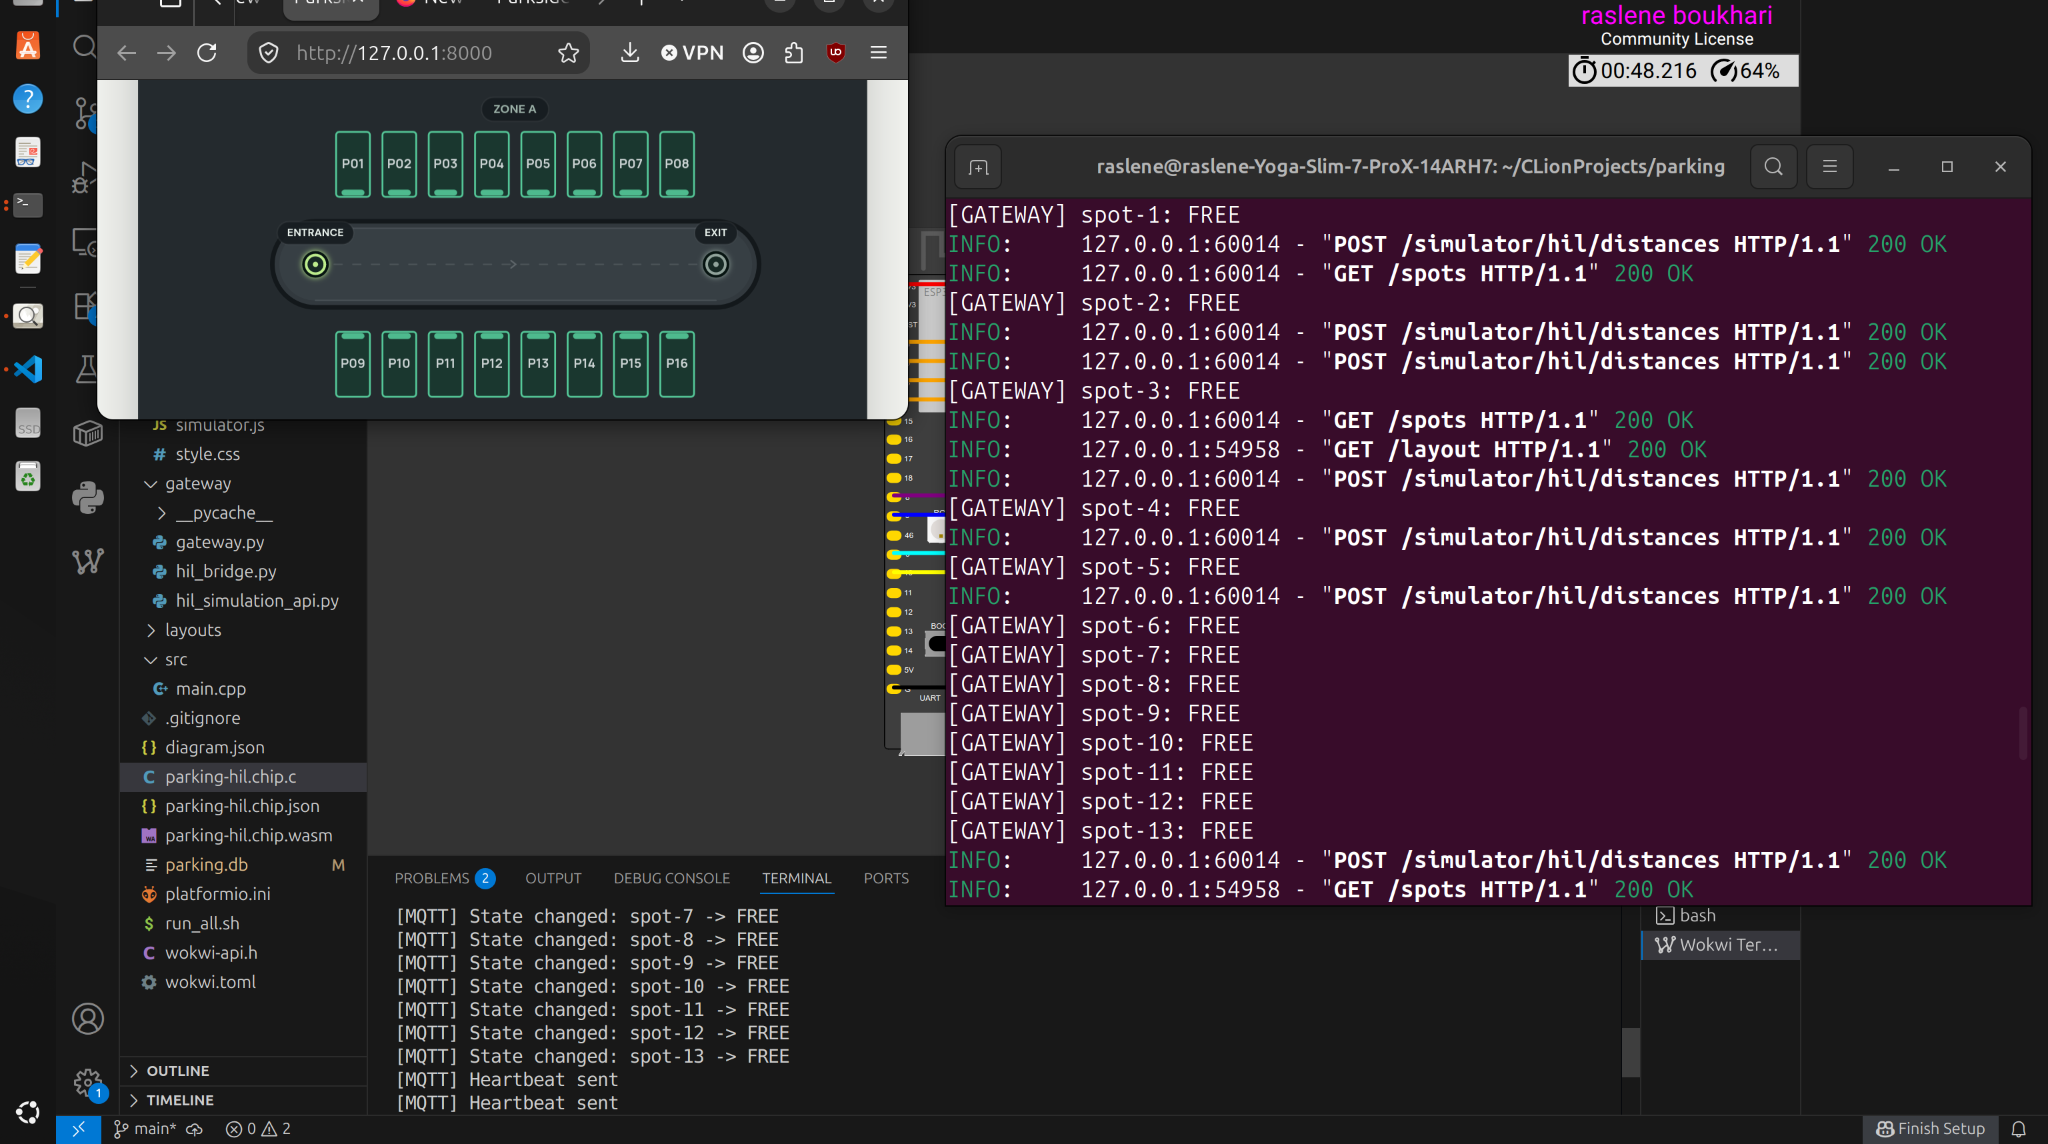
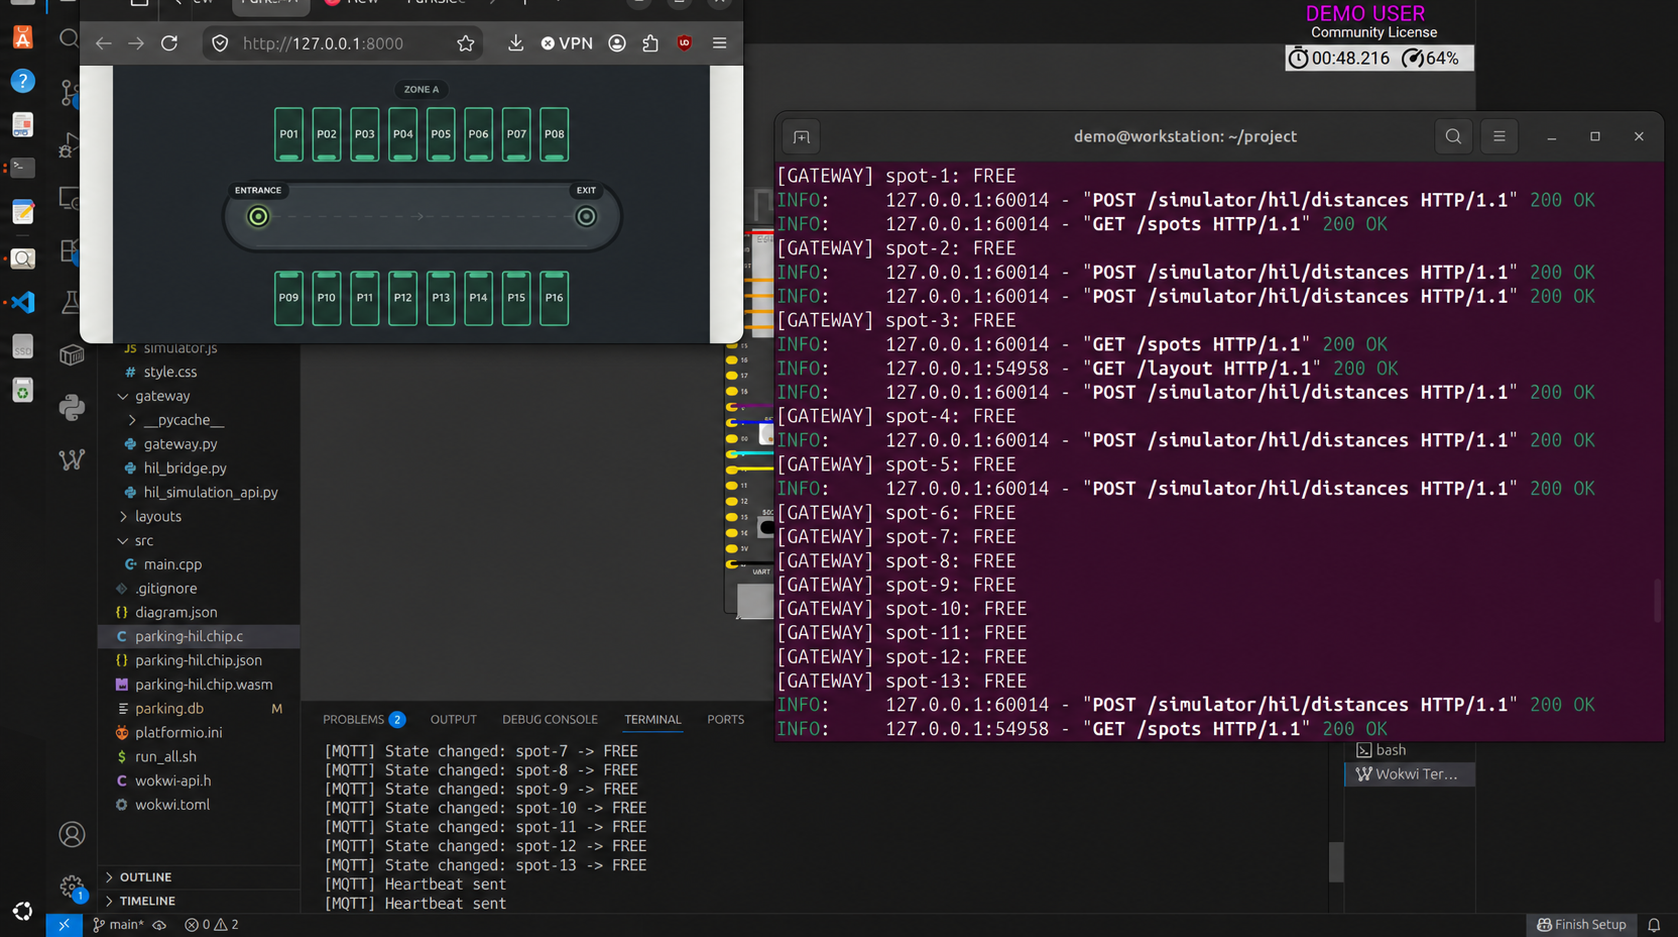
Anonymize documentation images and improve README

diff --git a/README.md b/README.md
@@ -1,123 +1,247 @@
-# Smart Parking System - Hardware-in-the-Loop Simulation
+# Smart Parking Hardware-in-the-Loop Demo
 
-A complete smart parking system combining a 2D parking simulator, backend gateway, embedded ESP32 controller, custom Hardware-in-the-Loop (HIL) sensor simulation, and a web application.
+An end-to-end smart-parking prototype that connects a browser-based driving simulator to a simulated ESP32-S3 controller, sixteen virtual ultrasonic sensors, an MQTT telemetry path, and reservation-focused web interfaces.
 
-## Overview
+The project is more than a parking-map mock-up: vehicle positions in the 2D simulator become distance measurements, those measurements travel through a Hardware-in-the-Loop (HIL) bridge, and the ESP32 firmware makes the final `FREE`/`OCCUPIED` decision before publishing it back to the application.
 
-The system simulates a smart parking infrastructure:
-- Vehicle movement simulation
-- Virtual ultrasonic sensors
-- Backend processing
-- ESP32 embedded control
-- Web application for monitoring and reservations
+![System architecture](docs/architecture.png)
 
-The parking layout is flexible and configurable. New layouts, zones, and sensor configurations can be added without changing the main architecture.
+## What the demo includes
 
-## Architecture
+- A 2D parking simulator with drivable cars, collision-aware movement, barriers, parking sensors, and a phone preview.
+- A configurable 16-space garage loaded from JSON.
+- A FastAPI gateway that serves all three web interfaces and the REST API.
+- A custom Wokwi WebAssembly chip that emulates 16 multiplexed HC-SR04-style ultrasonic sensors.
+- ESP32-S3 firmware with hysteresis, sensor-fault handling, state confirmation, Wi-Fi, and MQTT publishing.
+- A driver view for availability, reservations, navigation, and arrival confirmation.
+- An entrance display that creates one-time QR reservation tickets.
+- SQLite persistence for spot and reservation state.
 
-![System Architecture](docs/architecture.png)
+| Interface | URL | Purpose |
+| --- | --- | --- |
+| Driver application | `http://127.0.0.1:8000/` | View availability, manage a reservation, and confirm a parked car |
+| Entrance display | `http://127.0.0.1:8000/display` | Select a free bay and transfer the reservation by QR code |
+| Parking simulator | `http://127.0.0.1:8000/simulator` | Drive test vehicles and generate virtual sensor distances |
+| OpenAPI documentation | `http://127.0.0.1:8000/docs` | Explore and call the FastAPI endpoints |
 
-## Components
+## How the HIL loop works
 
-### Simulation Environment
+1. The simulator computes the distance from each parking sensor to the nearest vehicle and posts a frame to `POST /simulator/hil/distances`.
+2. `gateway/hil_bridge.py` reads the latest frame and sends changed channels over Wokwi's RFC2217 serial server on port `4000`.
+3. The ESP32 receives each `channel,distance` update and forwards a 24-bit control packet to the custom Wokwi chip.
+4. When the ESP32 triggers a selected sensor, the custom chip produces an ECHO pulse whose width represents that channel's distance.
+5. The firmware classifies the bay using an occupied threshold below `80 cm`, a free threshold above `100 cm`, and three consecutive confirmations to reduce chatter.
+6. Confirmed state and sensor-health messages are published through MQTT.
+7. The FastAPI gateway subscribes to the MQTT feed, persists state in SQLite, and exposes it to the web applications.
 
-Generates parking scenarios and virtual sensor distances.
+This separation is intentional: the browser only generates physical distance inputs. It does not decide whether a space is free or occupied; that decision remains in the embedded firmware.
 
-![Parking Simulator](docs/simulator.png)
+![Anonymized HIL workspace](docs/hil_system.png)
 
-### Backend Gateway
+## Architecture and source map
 
-FastAPI service responsible for:
-- Receiving simulation data
-- Managing parking states
-- Providing APIs
-- Communicating with the HIL bridge
+| Path | Responsibility |
+| --- | --- |
+| `frontend/simulator.html`, `simulator.js`, `simulator.css` | 2D vehicle simulation and distance-frame generation |
+| `frontend/index.html`, `app.js`, `style.css` | Driver-facing parking and reservation application |
+| `frontend/display.html`, `display.js`, `display.css` | Entrance kiosk and QR ticket flow |
+| `gateway/gateway.py` | FastAPI routes, MQTT subscriber, reservation logic, and SQLite persistence |
+| `gateway/hil_simulation_api.py` | In-memory handoff for the latest simulator distance frame |
+| `gateway/hil_bridge.py` | HTTP-to-RFC2217 distance bridge and MCU log reader |
+| `src/main.cpp` | ESP32-S3 sensor scanning, filtering, health checks, and MQTT publishing |
+| `parking-hil.chip.c` | Custom Wokwi chip implementing the control bus and ultrasonic ECHO timing |
+| `diagram.json`, `parking-hil.chip.json`, `wokwi.toml` | Wokwi board, custom-chip, and RFC2217 configuration |
+| `layouts/parking_layout.json` | Floors, zones, bays, aisle graph, entrance, and exit |
+| `parking.db` | Demo SQLite state used by the gateway |
+| `run_all.sh` | Build and startup orchestration |
 
-![Gateway](docs/hil_system.png)
+## Requirements
 
-### Hardware-in-the-Loop System
+The included startup script targets Linux and expects these commands to be available:
 
-Communication flow:
+- Python 3 with `venv`
+- PlatformIO CLI (`pio`)
+- Wokwi CLI (`wokwi-cli`)
+- Visual Studio Code (`code`) with the Wokwi extension
+- A browser opener compatible with `xdg-open`
+- Internet access for Wokwi, the public MQTT broker, and the QR-code JavaScript CDN
 
-```
-Simulator
- |
- | HTTP distance data
- v
-FastAPI Gateway
- |
- v
-Python HIL Bridge
- |
- | RFC2217 Serial
- v
-Custom Wokwi HIL Chip
- |
- | Ultrasonic Echo pulses
- v
-ESP32-S3 Controller
-```
+The Python packages used by the gateway and bridge are `fastapi`, `uvicorn`, `paho-mqtt`, `pyserial`, and `requests`.
 
-![HIL System](docs/Wokwi.png)
+## Quick start
 
-
-### Web Application
-
-Provides:
-- Live parking status
-- Parking map visualization
-- Reservations
-- Driver interface
-
-![Web Application](docs/web_app.png)
-![Web Application](docs/reservation_flow.png)
-
-## Running
-
-Requirements:
-- Python 3
-- PlatformIO
-- Wokwi CLI
-
-Start the complete system:
+### 1. Clone the repository
 
 ```bash
+git clone https://github.com/rasleneboukhari-stack/smart-parking-hil.git
+cd smart-parking-hil
+```
+
+### 2. Create the expected Python environment
+
+`run_all.sh` deliberately uses a project-local `.venv`:
+
+```bash
+python3 -m venv .venv
+.venv/bin/python -m pip install --upgrade pip
+.venv/bin/python -m pip install fastapi uvicorn paho-mqtt pyserial requests
+```
+
+### 3. Start the stack
+
+```bash
+chmod +x run_all.sh
 ./run_all.sh
 ```
 
-## Project Structure
+The script will:
 
+1. Compile `parking-hil.chip.c` into `parking-hil.chip.wasm`.
+2. Build the ESP32 firmware with PlatformIO.
+3. Start the FastAPI gateway on port `8000`.
+4. Open the driver application and simulator in the browser.
+5. Open the project in VS Code.
+6. Wait for a real RFC2217 connection from Wokwi.
+7. Start the HIL bridge after the Wokwi handshake succeeds.
+
+### 4. Start Wokwi when prompted
+
+In VS Code:
+
+1. Open the Command Palette with `Ctrl+Shift+P`.
+2. Run **Wokwi: Start Simulator**.
+3. Keep the Wokwi simulator running while using the browser simulator.
+
+The terminal will print `PARKING STACK RUNNING` after the RFC2217 connection is ready. Press `Ctrl+C` in the `run_all.sh` terminal to stop the gateway and HIL bridge.
+
+![Anonymized Wokwi setup](docs/Wokwi.png)
+
+## Using the demo
+
+1. Open the simulator and drive a car to the entrance.
+2. Open the entrance display, choose an available space, and create a reservation.
+3. Scan the QR ticket with a device that can reach the gateway, or open the generated claim URL in another browser tab.
+4. Drive the selected car into its reserved bay.
+5. Wait for the ESP32 sensor pipeline to mark the bay occupied.
+6. Confirm whether the detected car is yours. The application can also move or cancel an active reservation and handle a car parked in another occupied bay.
+
+The reservation state machine uses:
+
+```text
+ACTIVE -> AWAITING_CONFIRMATION -> COMPLETED
+   |               |
+   +-> CANCELLED   +-> ACTIVE (if the bay becomes free again)
+   |
+   +-> EXPIRED after 5 minutes
 ```
-smart-parking-hil/
-├── frontend/
-├── gateway/
-├── src/
-├── layouts/
-├── docs/
-├── platformio.ini
-├── run_all.sh
-└── README.md
+
+![Reservation selection](docs/reservation.png)
+
+![Reservation and simulator flow](docs/reservation_flow.png)
+
+## REST API summary
+
+| Method | Endpoint | Description |
+| --- | --- | --- |
+| `GET` | `/layout` | Return the configured garage geometry and navigation graph |
+| `GET` | `/spots` | Return physical, effective, reservation, floor, and zone state |
+| `POST` | `/reserve` | Reserve an available spot |
+| `GET` | `/reservation/{id}` | Read a reservation's current state |
+| `POST` | `/reservation/{id}/confirm` | Confirm the detected car in the reserved bay |
+| `POST` | `/reservation/{id}/move` | Move a waiting reservation to another free bay |
+| `POST` | `/reservation/{id}/parked-elsewhere` | Associate the reservation with another occupied bay |
+| `POST` | `/reservation/{id}/cancel` | Cancel an active reservation |
+| `POST` | `/display/reserve` | Reserve from the kiosk and create a one-time claim token |
+| `GET` | `/claim/{token}` | Transfer the reservation into browser local storage |
+| `POST` | `/simulator/hil/distances` | Accept the latest simulator distance frame |
+| `GET` | `/simulator/hil/distances` | Return the latest frame to the HIL bridge |
+
+Example:
+
+```bash
+curl http://127.0.0.1:8000/spots
+
+curl -X POST http://127.0.0.1:8000/reserve \
+  -H 'Content-Type: application/json' \
+  -d '{"spot_id":"spot-5"}'
 ```
 
-## Technologies
+## Configuration
 
-Embedded:
-- ESP32-S3
-- C++
-- PlatformIO
-- Wokwi
+### Parking layout
 
-Backend:
-- Python
-- FastAPI
-- PySerial
+Edit `layouts/parking_layout.json` to change garage geometry, labels, floors, zones, and navigation. The current HIL firmware and custom chip are fixed at 16 channels, so increasing the number of physical HIL bays also requires corresponding firmware and bridge changes.
 
-Communication:
-- HTTP
-- MQTT
-- RFC2217 Serial
+### Ports and services
 
-Frontend:
-- HTML
-- CSS
-- JavaScript
+| Service | Default |
+| --- | --- |
+| FastAPI gateway | `0.0.0.0:8000` |
+| Wokwi RFC2217 server | `127.0.0.1:4000` |
+| MQTT broker | `broker.hivemq.com:1883` |
+| ESP32 simulation Wi-Fi | `Wokwi-GUEST` |
+
+The MQTT namespace is currently hard-coded in both `src/main.cpp` and `gateway/gateway.py`. Change it in both files before running multiple copies or sharing a public broker with other users.
+
+### Important timing values
+
+- The browser attempts to send a fresh distance frame every `100 ms`.
+- The HIL bridge sends channels that changed by at least `0.25 cm` and performs a full refresh every `3 s`.
+- The ESP32 scans one sensor every `60 ms`.
+- Reservations expire after `300 s`.
+- A zone is considered offline after `15 s` without a heartbeat.
+
+## Logs and troubleshooting
+
+Runtime logs are stored in `.runlogs/`:
+
+- `.runlogs/gateway.log`
+- `.runlogs/hil_bridge.log`
+
+### The script waits forever for RFC2217
+
+Wokwi has not opened the server configured in `wokwi.toml`. Start the simulator from the VS Code Wokwi extension and confirm that port `4000` is not already in use.
+
+### The HIL bridge reports no simulator distances
+
+Open `http://127.0.0.1:8000/simulator`. The browser simulator is the component that posts distance frames to the gateway.
+
+### The web page loads but status does not update
+
+Check all three links in the chain:
+
+1. The browser simulator shows **Distance bridge live**.
+2. `.runlogs/hil_bridge.log` shows communication with the MCU.
+3. `.runlogs/gateway.log` shows a successful MQTT connection and spot messages.
+
+### A QR code points to localhost
+
+`localhost` and `127.0.0.1` refer to the device scanning the code, not necessarily the computer running the gateway. Access the entrance display through the host computer's LAN address if a phone must claim the reservation.
+
+### Old state appears after restart
+
+The gateway reloads spot and reservation state from `parking.db`. Keep the database when you want persistence; use a fresh demo database when you need a clean scenario.
+
+## Public-demo and privacy notes
+
+- The included screenshots use anonymized identity and workstation labels.
+- The MQTT broker is public and unauthenticated. Do not publish personal, confidential, or production data through this demo configuration.
+- The API has no authentication and is intended for local demonstration, not internet exposure.
+- Browser geolocation is optional and remains in the browser; indoor routing uses the garage layout graph.
+- The tracked SQLite file contains generated demo state and reservation identifiers, not user profiles.
+
+## Additional screenshots
+
+<p align="center">
+  <img src="docs/simulator.png" alt="Parking simulator" width="48%">
+  <img src="docs/web_app.png" alt="Entrance display inside the simulator" width="48%">
+</p>
+
+<p align="center">
+  <img src="docs/notification.png" alt="Arrival confirmation notification" width="48%">
+  <img src="docs/parked_status.png" alt="Completed parking reservation" width="48%">
+</p>
+
+## Scope
+
+This repository is an educational HIL prototype. Before production use, add authentication, an isolated MQTT broker with TLS, input hardening, database migrations, automated tests, deployment configuration, and physical-hardware validation.
